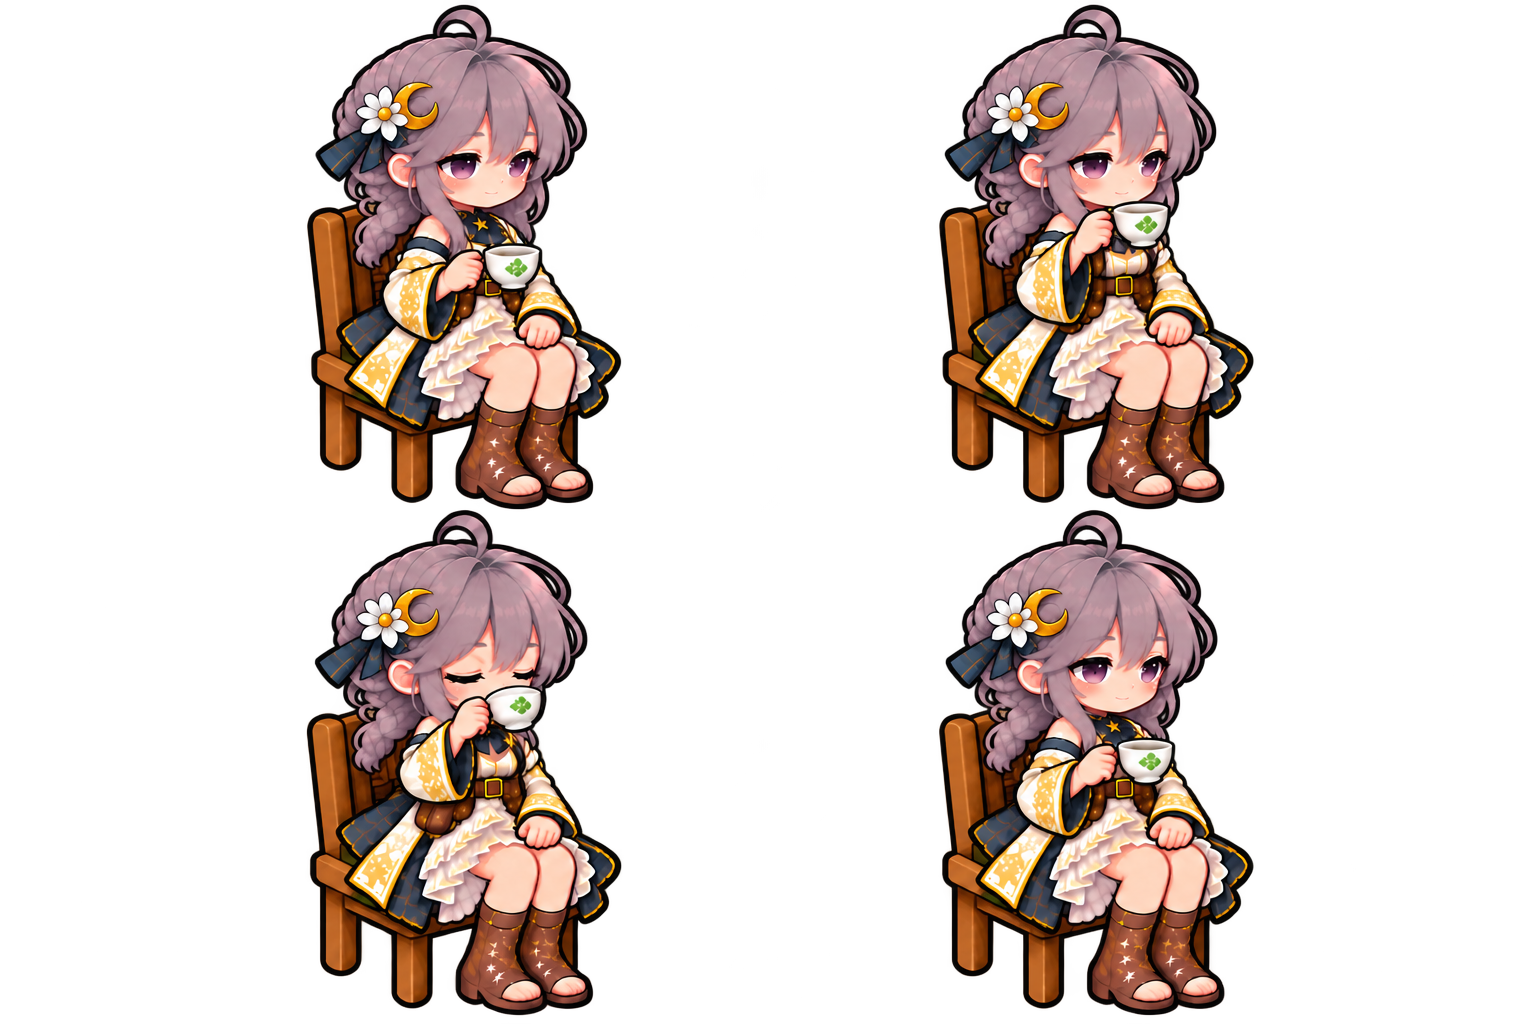
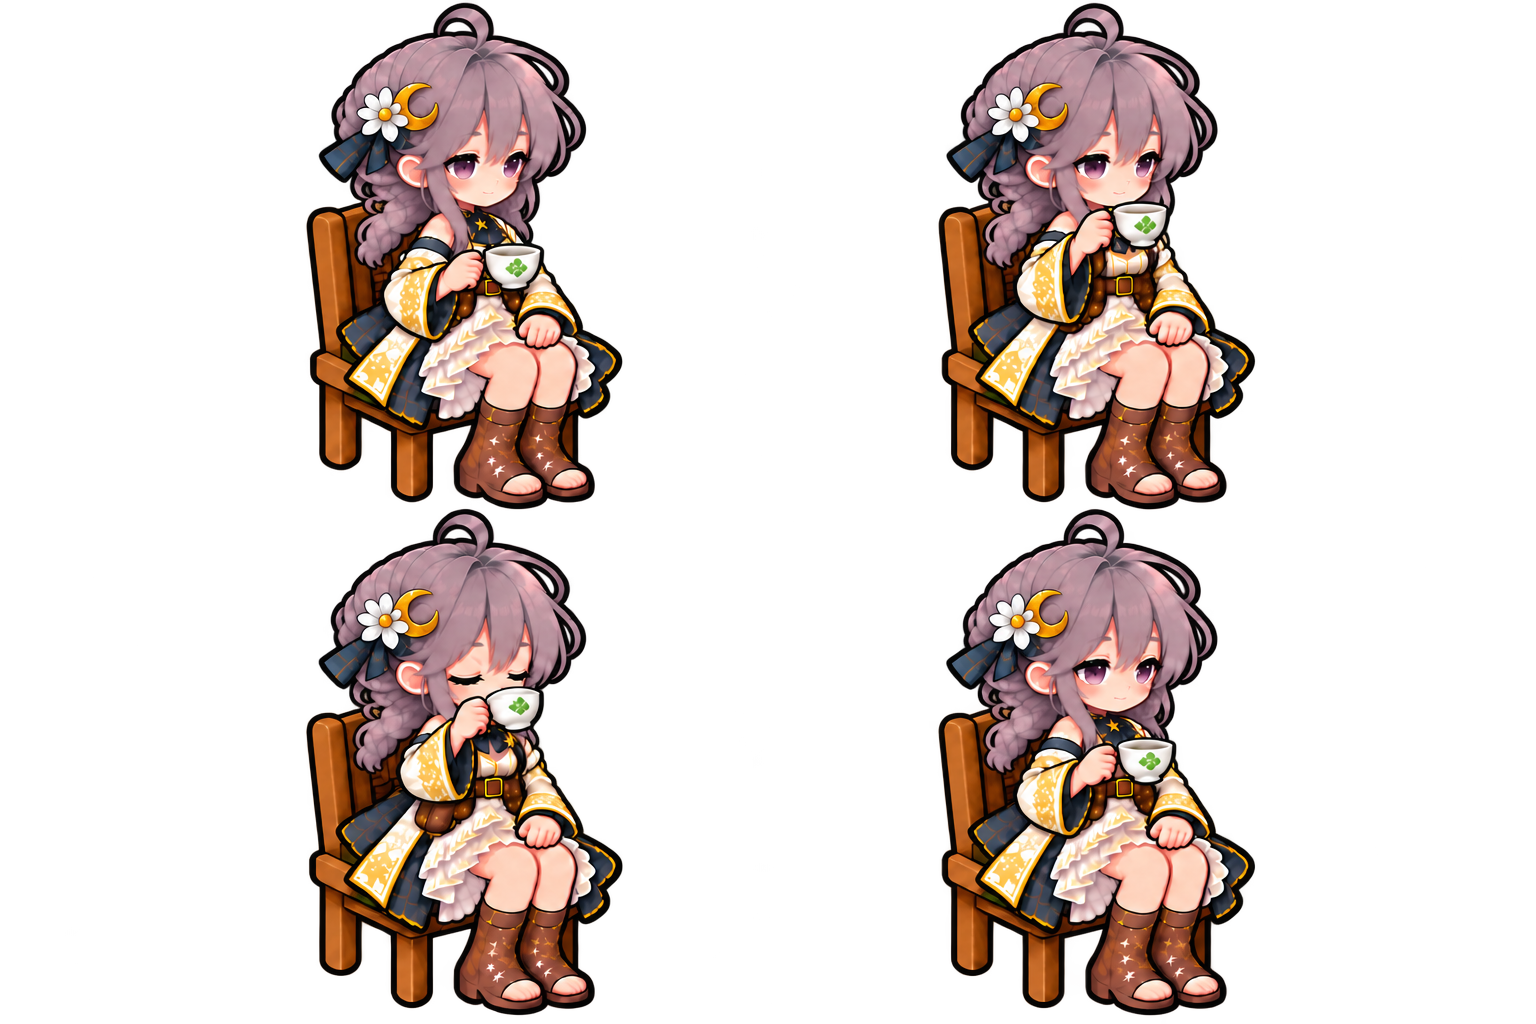
fix: further narrow Mira tea facial proportions

Changed region(s): [[0.1875, 0.0, 0.4062, 1.0], [0.625, 0.0, 0.8125, 1.0]]

diff --git a/docs/art/guild-lab.md b/docs/art/guild-lab.md
@@ -21,6 +21,8 @@
 
 ミラのお茶は、採用済みの顔アップを基準に、頬だけでなくこめかみ・目の幅と間隔・あごを含む顔全体を細め、目と眉の位置を上げた。眠たげなまぶたを残し、左右各4コマの原本と共通の配信アトラスへ反映する。頭全体の縮小や実行時の変形は行わない。[指示全文・参照・採否](../art-generation/home-pixel-tea-mira-face.json)。
 
+さらに顔の細さを強める修正では、目の横幅・左右の間隔まで含めて調整した。高めの目の位置と髪全体の大きさは保ち、左右各4コマへ適用する。[追加の生成記録](../art-generation/home-pixel-tea-mira-narrower.json)。指示内の縮小率は生成の目安であり、測定結果ではない。
+
 ### 配信用素材
 
 - 原本：`assets/source/home-pixel/`。内蔵 image_gen で5人、家具、床の7枚と、歩行専用の5枚、椅子と後ろ姿の5枚、感情マーク・菜園小物の2枚を生成。指示全文は [生成記録](../art-generation/home-pixel.json) 、[歩行の生成記録](../art-generation/home-pixel-walk-v2.json)、[着席・後ろ姿・小物の生成記録](../art-generation/home-pixel-actions.json)。原本は保存し、配信用だけを生成する。
